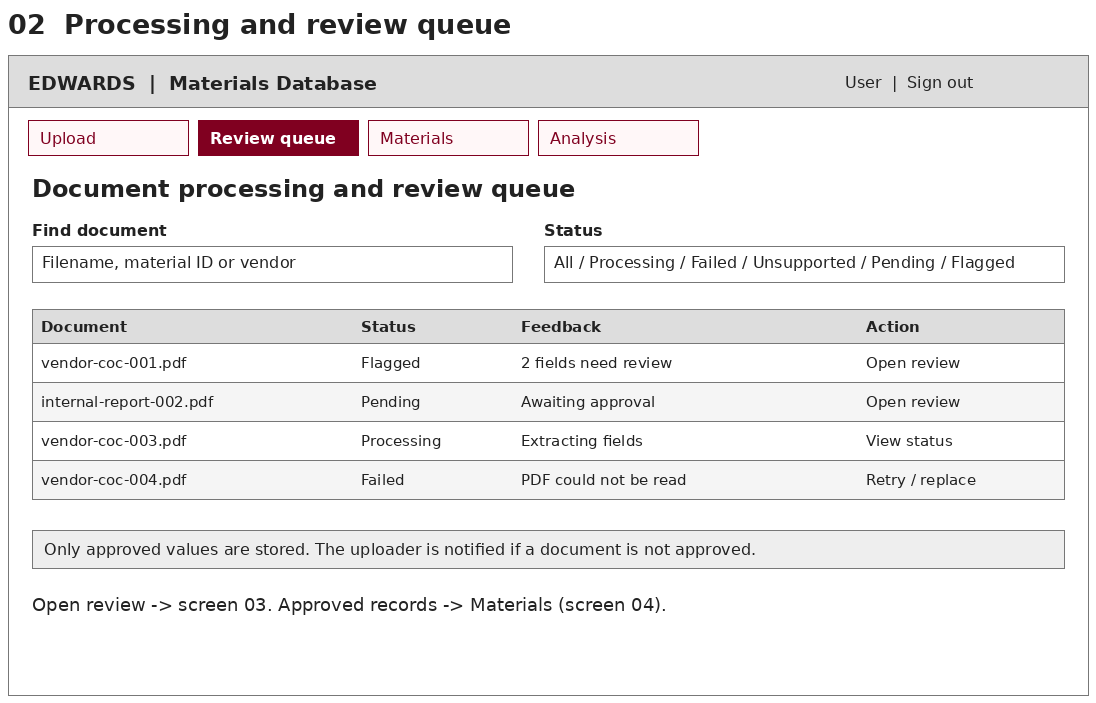
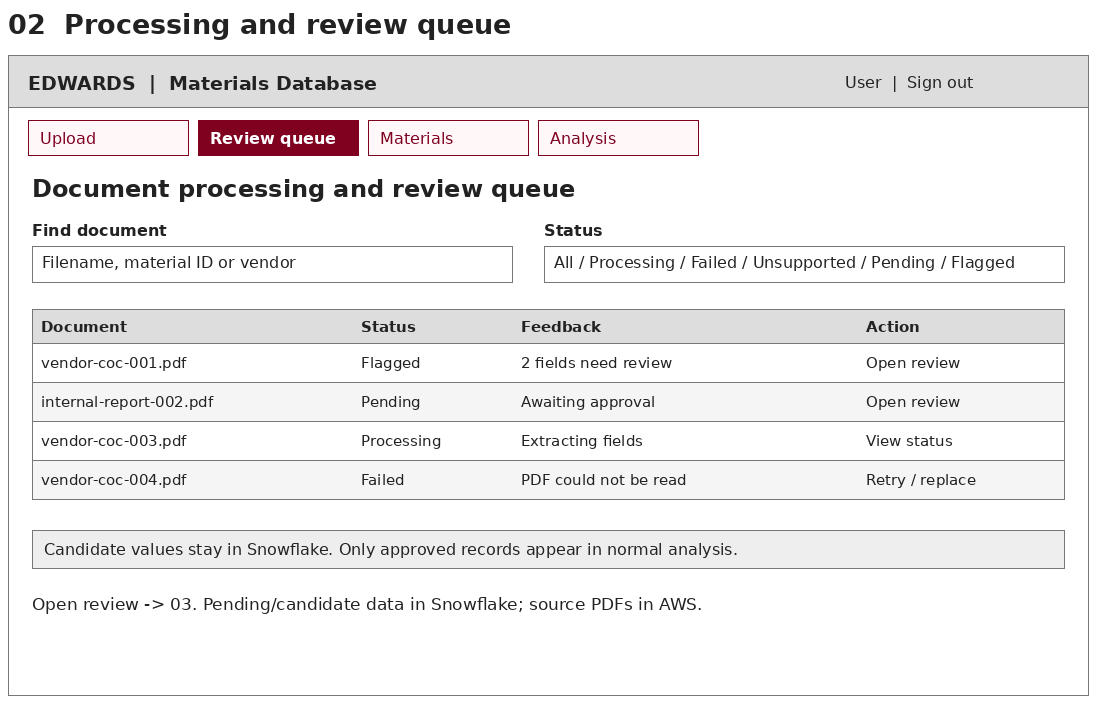
Add analysis prototype and reconcile project documentation
Implement Page 5 synthetic-data analysis, align wireframes and Goal 2 storage, repair proposal references, and retain issue audit drafts for follow-up. Introduction authorship and unconfirmed issue metadata remain pending.

Assisted-by: OpenAI Codex

Changed region(s): [[0.031, 0.7767, 0.6825, 0.8065], [0.031, 0.8364, 0.6515, 0.8663]]

diff --git a/prototype/ui-tabs/analysis.html b/prototype/ui-tabs/analysis.html
@@ -1,0 +1,66 @@
+<!DOCTYPE html>
+<html lang="en">
+<head>
+<meta charset="utf-8"><meta name="viewport" content="width=device-width, initial-scale=1">
+<title>Materials Database — Analysis prototype</title>
+<style>
+:root{--red:#800020;--line:#ddd;--bg:#f4f4f9}*{box-sizing:border-box}body{margin:0;font:16px Arial,sans-serif;background:var(--bg);color:#292929}header{background:var(--red);color:white;padding:20px;display:flex;align-items:center;gap:18px}header img{width:64px;height:64px;object-fit:contain}header h1{font-size:26px}header span{margin-left:auto}main{max-width:1250px;margin:auto;padding:24px}nav{display:flex;flex-wrap:wrap;gap:8px;margin-bottom:20px}nav a,nav span{padding:12px 20px;border:1px solid var(--red);color:var(--red);text-decoration:none;border-radius:5px}nav [aria-current]{background:var(--red);color:white}section,.notice{background:white;border:1px solid var(--line);padding:20px;margin:16px 0;border-radius:8px}.notice{background:#fff5df}fieldset{border:0;padding:0;display:flex;flex-wrap:wrap;gap:15px}fieldset label{display:block;padding:6px 0}select,button{font:inherit;padding:10px;border:1px solid #aaa;border-radius:4px}button{cursor:pointer;background:var(--red);color:white}button.secondary{background:white;color:var(--red)}label{line-height:1.5}button:focus-visible,a:focus-visible,select:focus-visible,input:focus-visible{outline:3px solid #125a9c;outline-offset:3px}.actions{display:flex;flex-wrap:wrap;gap:14px;align-items:end}.actions>label{display:grid;gap:5px}table{width:100%;border-collapse:collapse}th,td{text-align:left;padding:12px;border-bottom:1px solid var(--line)}th{background:#eee}.scroll{overflow:auto}svg{width:100%;height:auto;max-height:340px}#feedback{font-weight:bold}#warnings{color:#7b2600}small{display:block;margin-top:12px}footer{padding:20px;color:#555}
+</style>
+</head>
+<body>
+<header><img src="../logo.jpeg" alt=""><h1>Materials Database</h1><span>Prototype user · no live sign-in</span></header>
+<main>
+<nav aria-label="Main navigation"><a href="../index.html">Upload shell</a><span>Review queue (not integrated)</span><a href="search-view.html">Materials</a><a href="analysis.html" aria-current="page">Analysis</a></nav>
+<h2>Compare material properties</h2>
+<p class="notice">Synthetic-data prototype. Snowflake, SSO, source PDFs, audit logging and export are not connected. Never upload sponsor data here.</p>
+<section><h3>Selected records</h3><p id="handoff"></p><fieldset id="records"><legend>Choose illustrative records</legend></fieldset><button class="secondary" id="clear" type="button">Clear selection</button></section>
+<section><div class="actions">
+<label for="property">Property<select id="property"><option value="strength">Tensile strength</option><option value="elongation">Elongation</option></select></label>
+<label for="view">Analysis view<select id="view"><option value="compare">Compare</option><option value="trend">Historical trend</option><option value="range">Property range</option></select></label>
+<button type="button" id="run">Run analysis</button><button type="button" id="retry" hidden>Retry</button>
+<label><input type="checkbox" id="fail"> Simulate service failure</label>
+</div><p id="feedback" role="status" aria-live="polite"></p><ul id="warnings"></ul>
+<div class="scroll"><table><caption id="caption">Property values</caption><thead><tr><th scope="col">Material / lot</th><th scope="col">Date</th><th scope="col">Value</th><th scope="col">Unit</th></tr></thead><tbody id="values"></tbody></table></div>
+<h3>Visualization</h3><div id="chart"></div><p id="range"></p>
+<small>Values are displayed without intentional rounding. Units must match the selected property's unit. No specification limits are supplied, so no compliance conclusion is made.</small>
+</section></main><footer>Page 5 · Issue #95 · Illustrative records only</footer>
+<script src="analysis.js"></script>
+<script>
+'use strict';
+const {analyze,demoRecords,properties}=MaterialAnalysis;
+const $=id=>document.getElementById(id), params=new URLSearchParams(location.search);
+const incoming=(params.get('ids')||'1,2').split(',').filter(Boolean);
+const unknown=incoming.filter(id=>!demoRecords.some(r=>r.id===id));
+$('handoff').textContent=params.has('ids')?'Selection received from Materials. IDs resolve to synthetic fixtures only.':'Showing two synthetic approved records. You may change the selection below.';
+for(const r of demoRecords){const label=document.createElement('label'),c=document.createElement('input');c.type='checkbox';c.value=r.id;c.checked=incoming.includes(r.id);label.append(c,document.createTextNode(` ${r.name} — ${r.status}`));$('records').append(label);c.addEventListener('change',run);}
+function cell(row,s){row.insertCell().textContent=String(s??'—');}
+function element(tag,attrs){const e=document.createElementNS('http://www.w3.org/2000/svg',tag);for(const [k,v]of Object.entries(attrs))e.setAttribute(k,v);return e;}
+function draw(result,view){
+ const svg=element('svg',{viewBox:'0 0 1000 320',role:'img','aria-label':`${view} of ${properties[$('property').value].label} in ${result.unit}`});
+ const vals=view==='range'?[{name:'Minimum',value:result.min},{name:'Maximum',value:result.max}]:result.values;
+ const max=Math.max(...vals.map(v=>Math.abs(v.value)),1),n=vals.length;
+ const top=25,base=240,height=200;
+ if(view==='trend'){
+  const dates=vals.map(v=>Date.parse(v.date)),lo=Math.min(...dates),hi=Math.max(...dates);
+  const points=vals.map((v,i)=>[hi===lo?500:90+(dates[i]-lo)/(hi-lo)*820,base-v.value/max*height]);
+  svg.append(element('polyline',{points:points.map(p=>p.join(',')).join(' '),fill:'none',stroke:'#800020','stroke-width':3}));
+  points.forEach(([x,y],i)=>{svg.append(element('circle',{cx:x,cy:y,r:5,fill:'#800020'}));const t=element('text',{x,y:base+25,'text-anchor':'middle','font-size':16});t.textContent=vals[i].date;svg.append(t);});
+ }else vals.forEach((v,i)=>{const x=60+i*900/n;svg.append(element('rect',{x,y:base-v.value/max*height,width:Math.max(10,650/n),height:Math.max(0,v.value/max*height),fill:'#800020'}));const t=element('text',{x,y:base+25,'font-size':14});t.textContent=view==='range'?v.name:`Record ${v.id}`;svg.append(t);});
+ const label=element('text',{x:25,y:top,'font-size':16});label.textContent=`${result.unit} · largest plotted value ${max}`;svg.append(label);
+ $('chart').append(svg);
+}
+function run(){
+ $('values').replaceChildren();$('chart').replaceChildren();$('warnings').replaceChildren();$('range').textContent='';$('retry').hidden=true;
+ if($('fail').checked){$('feedback').textContent='Analysis service unavailable (simulated). Clear the failure checkbox and retry; your selection is preserved.';$('retry').hidden=false;return;}
+ const ids=[...$('records').querySelectorAll('input:checked')].map(c=>c.value);
+ const r=analyze(demoRecords,ids,$('property').value,$('view').value);
+ for(const warning of [...r.warnings,...unknown.map(id=>`Incoming record ${id} is not available in the synthetic fixture.`)]){const li=document.createElement('li');li.textContent=warning;$('warnings').append(li);}
+ $('caption').textContent=`${properties[$('property').value].label} (${r.unit})`;
+ for(const v of r.values){const row=$('values').insertRow();[v.name,v.date,v.value,v.unit].forEach(x=>cell(row,x));}
+ $('feedback').textContent=r.empty?`No analysis results: select at least ${r.minimum} approved record${r.minimum===1?'':'s'} with compatible values${$('view').value==='trend'?' and valid dates':''}.`:`${r.values.length} compatible approved records. ${r.warnings.length?'Some records were excluded; see explanations.':''}`;
+ if(!r.empty){draw(r,$('view').value);if($('view').value==='range')$('range').textContent=`Minimum: ${r.min} ${r.unit}; maximum: ${r.max} ${r.unit}.`;}
+}
+$('clear').onclick=()=>{$('records').querySelectorAll('input').forEach(c=>c.checked=false);run();};
+for(const id of ['property','view','fail'])$(id).addEventListener('change',run);
+$('run').onclick=run;$('retry').onclick=run;run();
+</script></body></html>

diff --git a/prototype/ui-tabs/analysis.js b/prototype/ui-tabs/analysis.js
@@ -1,0 +1,32 @@
+(function (root) {
+    'use strict';
+    const demoRecords = [
+        {id:'1', name:'Material A / Lot A', status:'Approved', date:'2026-10-01', properties:{strength:{value:850.125,unit:'MPa'},elongation:{value:12,unit:'%'}}},
+        {id:'2', name:'Material A / Lot B', status:'Approved', date:'2026-11-01', properties:{strength:{value:870.25,unit:'MPa'},elongation:{value:14,unit:'%'}}},
+        {id:'3', name:'Material A / Lot C', status:'Approved', date:'2026-11-03', properties:{strength:{value:125,unit:'ksi'}}},
+        {id:'4', name:'Material A / Lot D', status:'Approved', date:'2026-11-10', properties:{elongation:{value:13,unit:'%'}}},
+        {id:'5', name:'Material A / Lot E', status:'Flagged', date:'2026-11-12', properties:{strength:{value:999,unit:'MPa'}}}
+    ];
+    const properties = {strength:{label:'Tensile strength',unit:'MPa'},elongation:{label:'Elongation',unit:'%'}};
+    function analyze(records, ids, property, view) {
+        if (!properties[property] || !['compare','trend','range'].includes(view)) throw Error('Unsupported property or view.');
+        const warnings=[], values=[], selected=[...new Set(ids.map(String))];
+        for (const id of selected) {
+            const r=records.find(r=>String(r.id)===id);
+            if (!r) {warnings.push(`Record ${id}: not found.`);continue;}
+            if (r.status!=='Approved') {warnings.push(`${r.name}: excluded because it is not approved.`);continue;}
+            const p=r.properties[property];
+            if (!p || typeof p.value!=='number' || !Number.isFinite(p.value)) {warnings.push(`${r.name}: missing or invalid property value.`);continue;}
+            if (p.unit!==properties[property].unit) {warnings.push(`${r.name}: incompatible unit ${p.unit}; no automatic conversion.`);continue;}
+            if (view==='trend' && (!/^\d{4}-\d{2}-\d{2}$/.test(r.date||'') || !Number.isFinite(Date.parse(r.date)))) {warnings.push(`${r.name}: missing or invalid date for trend.`);continue;}
+            values.push({id:r.id,name:r.name,date:r.date,value:p.value,unit:p.unit});
+        }
+        if (view==='trend') values.sort((a,b)=>a.date.localeCompare(b.date));
+        const minimum=view==='range'?1:2;
+        return {values,warnings,empty:values.length<minimum,minimum,unit:properties[property].unit,
+            min:values.length?Math.min(...values.map(x=>x.value)):null,max:values.length?Math.max(...values.map(x=>x.value)):null};
+    }
+    const api={analyze,demoRecords,properties};
+    if (typeof module!=='undefined' && module.exports) module.exports=api;
+    root.MaterialAnalysis=api;
+})(typeof window!=='undefined'?window:globalThis);

diff --git a/prototype/ui-tabs/analysis.test.js b/prototype/ui-tabs/analysis.test.js
@@ -1,0 +1,9 @@
+const test=require('node:test');
+const assert=require('node:assert/strict');
+const {analyze,demoRecords}=require('./analysis.js');
+test('comparison returns approved values at stored precision',()=>{const r=analyze(demoRecords,['1','2'],'strength','compare');assert.equal(r.empty,false);assert.deepEqual(r.values.map(x=>x.value),[850.125,870.25]);assert.equal(r.unit,'MPa');});
+test('excludes unapproved, missing and incompatible records with reasons',()=>{const r=analyze(demoRecords,['1','2','3','4','5','99'],'strength','compare');assert.equal(r.values.length,2);assert.equal(r.warnings.length,4);assert.match(r.warnings.join(' '),/incompatible unit ksi/);assert.match(r.warnings.join(' '),/not approved/);});
+test('empty selection and insufficient comparison are explicit',()=>{assert.equal(analyze(demoRecords,[],'strength','compare').empty,true);assert.equal(analyze(demoRecords,['1'],'strength','compare').empty,true);});
+test('range supports one value and returns exact extrema',()=>{const r=analyze(demoRecords,['2','1'],'strength','range');assert.equal(r.min,850.125);assert.equal(r.max,870.25);assert.equal(analyze(demoRecords,['1'],'strength','range').empty,false);});
+test('trend sorts by date and excludes undated points',()=>{const records=[...demoRecords,{...demoRecords[0],id:'6',date:null}];const r=analyze(records,['2','6','1'],'strength','trend');assert.deepEqual(r.values.map(x=>x.id),['1','2']);assert.match(r.warnings[0],/date/);});
+test('deduplicates selected IDs and rejects unsupported requests',()=>{assert.equal(analyze(demoRecords,['1','1'],'strength','range').values.length,1);assert.throws(()=>analyze(demoRecords,['1'],'unknown','compare'));});

diff --git a/prototype/ui-tabs/search-view.html b/prototype/ui-tabs/search-view.html
@@ -419,7 +419,7 @@
         }
 
         tabButtons.forEach(button => {
-            button.addEventListener('click', () => activateTab(button.dataset.target));
+            button.addEventListener('click', () => { if (button.dataset.target === 'analysis-tab') window.location.href = 'analysis.html?ids=' + encodeURIComponent(getSelectedMaterialIds().join(',')); else activateTab(button.dataset.target); });
         });
 
         const tableBody = document.querySelector('.table-body');
@@ -546,7 +546,7 @@
 
         handleCompareMaterials = ids => {
             console.log('Selected material IDs for comparison:', ids);
-            activateTab('analysis-tab');
+            window.location.href = 'analysis.html?ids=' + encodeURIComponent(ids.join(','));
         };
 
         handleSearchMaterials = filters => {

diff --git a/docs/design/ui-wireframe/build_wireframe.py b/docs/design/ui-wireframe/build_wireframe.py
@@ -57,8 +57,8 @@ text(x,y,'Document processing and review queue',24,True)
 field(x,y+47,480,'Find document','Filename, material ID or vendor')
 field(x+512,y+47,520,'Status','All / Processing / Failed / Unsupported / Pending / Flagged')
 table(x,y+135,1032,['Document','Status','Feedback','Action'],[['vendor-coc-001.pdf','Flagged','2 fields need review','Open review'],['internal-report-002.pdf','Pending','Awaiting approval','Open review'],['vendor-coc-003.pdf','Processing','Extracting fields','View status'],['vendor-coc-004.pdf','Failed','PDF could not be read','Retry / replace']], [320,160,345,207])
-note(x,y+356,1032,'Only approved values are stored. The uploader is notified if a document is not approved.')
-text(x,y+420,'Open review -> screen 03. Approved records -> Materials (screen 04).',18)
+note(x,y+356,1032,'Candidate values stay in Snowflake. Only approved records appear in normal analysis.')
+text(x,y+420,'Open review -> 03. Pending/candidate data in Snowflake; source PDFs in AWS.',17)
 
 x,y=panel(40,895,3,'Validate extracted information','Review queue')
 text(x,y,'Review: vendor-coc-001.pdf',24,True)
@@ -72,7 +72,7 @@ table(x+404,y+73,628,['Field','Editable value','Review flag'],[['Material ID','M
 text(x+404,y+281,'Select a value to inspect its source. Brackets = editable field.',15)
 field(x+404,y+314,628,'Correction note','Explain correction when applicable')
 button(x+404,y+400,160,'Save draft');button(x+580,y+400,225,'Re-extract / replace');button(x+822,y+400,210,'Approve record',True)
-note(x,y+459,1032,'Approval feedback: resolve required flags first. Corrections and approvals record user and time.')
+note(x,y+459,1032,'Approval feedback: resolve required flags first. Audit events retained; Manager access only.')
 
 x,y=panel(1160,895,4,'Search and view material records','Materials')
 text(x,y,'Materials',24,True)
@@ -84,7 +84,7 @@ text(x,y+121,'Approved records  |  2 matching records  |  [ ] Select records to 
 table(x,y+155,1032,['Select','Material / lot','Vendor','Source type','Action'],[['[x]','M-001 / L-021','Vendor A','CoC','View details'],['[x]','M-001 / L-022','Vendor B','Test report','View details']], [80,300,220,210,222])
 box(x,y+281,1032,130,'#f5f5f5');text(x+14,y+293,'Record details: M-001 / L-021  |  Approved',19,True)
 text(x+14,y+328,'Properties: tensile strength 850 MPa; elongation 12%  |  Processing: view steps',16)
-text(x+14,y+359,'Source: vendor-coc-001.pdf [Open PDF]  |  Review history [View]',16)
+text(x+14,y+359,'Source: vendor-coc-001.pdf [Open PDF]',16)
 button(x,y+430,245,'Compare selected (2)',True)
 text(x+270,y+442,'-> Analysis, screen 05',17)
 text(x,y+490,'Empty state: No matching records. Change filters or reset your search.',16)
@@ -110,7 +110,7 @@ for i,(a,b) in enumerate([
 ('04 Materials -> 05 Analysis','Select at least two compatible records, then Compare selected.'),
 ('Persistent navigation','Upload, Review queue, Materials and Analysis remain accessible.'),
 ('Feedback and access','Show loading, success, empty and error states; restrict actions by role.'),
-('Design boundary','This wireframe specifies layout and behavior, not a final visual theme.')]):
+('Validation and Manager access','3 checks; about 90% confidence. Manager audit UI is not designed yet.')]):
     yy=1730+i*80;text(1184,yy,a,20,True);text(1184,yy+31,b,17)
 text(40,2370,'Source: task #41, proposal sections 2–3, and existing use-case / ER design. All displayed records and values are examples.',18)
 im.save(OUT.parent/'ui-wireframe.png')

diff --git a/proposal/proposal.md b/proposal/proposal.md
@@ -62,8 +62,8 @@ The Online Materials Database project aims to reduce the manual effort required 
 
 - **Goal 0: Design and Specification Documents** [epic:#42](https://github.com/CPSC490-Team-Proj/CPSC490-G07-MightyMorphin/issues/42)
   
-  - Objective 0.1: Design and Architecture [story#48](https://github.com/CPSC490-Team-Proj/CPSC490-G07-MightyMorphin/issues/48)
-  - Objective 0.2: Epic Specification Documents [story#49](https://github.com/CPSC490-Team-Proj/CPSC490-G07-MightyMorphin/issues/49)
+  - Objective 0.1: Design and Architecture [[story:#48]](https://github.com/CPSC490-Team-Proj/CPSC490-G07-MightyMorphin/issues/48)
+  - Objective 0.2: Epic Specification Documents [[story:#49]](https://github.com/CPSC490-Team-Proj/CPSC490-G07-MightyMorphin/issues/49)
 
 - **Goal 1: Snowflake Setup and Document Ingestion/Validation** [epic:#11](https://github.com/CPSC490-Team-Proj/CPSC490-G07-MightyMorphin/issues/11)
   The first goal establishes Snowflake for approved material-data storage and provides the intake, extraction, normalization, failure-handling, validation, and review workflow for supported CoCs and material test reports.
@@ -75,7 +75,7 @@ The Online Materials Database project aims to reduce the manual effort required 
   - Objective 1.5: Validate and approve candidate material data [story:#16](https://github.com/CPSC490-Team-Proj/CPSC490-G07-MightyMorphin/issues/16)
 
 - **Goal 2: Material and Source-Document Storage** [epic:#17](https://github.com/CPSC490-Team-Proj/CPSC490-G07-MightyMorphin/issues/17)
-  The second goal preserves original source documents and document metadata, stores candidate records and review history in the operational database, ingests only approved material data into Snowflake, and maintains reliable end-to-end traceability.
+  The second goal preserves original PDFs in AWS S3 and stores source metadata, candidate values, pending workflow state, validation results and review history in Snowflake. Only approved material data is published to the approved-record dataset for search and analysis; candidate persistence is distinct from approval. Source references and ingestion outcomes maintain end-to-end traceability.
 
   - Objective 2.1: Store original source documents and document metadata [story:#18](https://github.com/CPSC490-Team-Proj/CPSC490-G07-MightyMorphin/issues/18)
   - Objective 2.2: Store candidate records, workflow status, and review history [story:#19](https://github.com/CPSC490-Team-Proj/CPSC490-G07-MightyMorphin/issues/19)
@@ -220,6 +220,23 @@ Key: Diamond = decision; oval = user entity; cylindar = database; rectangles = p
 
 *Figure 5. UI Wireframes. Screen navigation and interaction notes are included in the overview.*
 
+The five user screens separate PDF upload, processing/review queue, validation,
+material search, and analysis. Existing PDFs are accepted without physical
+scanning; at OCR processing they are saved to AWS, while candidate values,
+pending items, validation results and approved records live in Snowflake with
+distinct review statuses. Validation makes three checks with an approximately
+90% confidence target; aggregation and exact thresholds remain unspecified.
+Review places editable values beside the source PDF, preserving human approval
+instead of treating every extracted value as verified. A separate queue was
+chosen over putting processing and correction into a single upload screen.
+Regular user history panels were removed because audit-log investigation and
+export belong to the Manager. Search retains source-document links and passes
+selected approved records to comparison. Exact permissions, the Manager UI,
+confidence aggregation and later export behavior are not designed here.
+[[task:#122]](https://github.com/CPSC490-Team-Proj/CPSC490-G07-MightyMorphin/issues/122)
+[[task:#41]](https://github.com/CPSC490-Team-Proj/CPSC490-G07-MightyMorphin/issues/41)
+
+
 ![Sequence Diagram - Search and View](../docs/design/sequence-search-view.png)
 
 *Figure 6.4. Search, View, and Record Selection Sequence Diagram. The figure shows how a user searches for records by entering filter criteria in the GUI. The request is sent through the Query Service and Database Driver to retrieve matching database records, which are returned and displayed in a results table. Users can select a record to view its details or select two records, enabling the Compare button and passing the selected records to the Compare tab.*
@@ -238,8 +255,17 @@ Key: Diamond = decision; oval = user entity; cylindar = database; rectangles = p
 |[Specification — Goal 1: Snowflake Setup and Document Ingestion/Validation](../docs/specs/goal-1-snowflake-ingestion-validation.md)|Specification|Specification document for Goal 1: Automated Material Data Extraction and Verification|[#46](https://github.com/CPSC490-Team-Proj/CPSC490-G07-MightyMorphin/issues/46)|
 |[Specification — Goal 2: Material and Source-Document Storage](../docs/specs/goal-2-storage-management.md)|Specification|Specification document for Goal 2: Centralized Material Data Storage and Management|[#58](https://github.com/CPSC490-Team-Proj/CPSC490-G07-MightyMorphin/issues/58)|
 |[Specification — Goal 3: Material Search, Viewing, and Analysis](../docs/specs/goal-3-material-search-viewing-analysis.md)|Specification|Specification document for Goal 3: Material Data Access and Analysis|[#59](https://github.com/CPSC490-Team-Proj/CPSC490-G07-MightyMorphin/issues/59)|
+|[Page 5 Analysis Sequence](../docs/design/sequence-analysis/analysis-sequence.md)|Design|Shows approved-record comparison, trend/range requests, and empty/error responses.|[[task:#94]](https://github.com/CPSC490-Team-Proj/CPSC490-G07-MightyMorphin/issues/94)|
 
 ### Planned activities — the work items
+
+Proposal preparation is tracked under [[epic:#4]](https://github.com/CPSC490-Team-Proj/CPSC490-G07-MightyMorphin/issues/4),
+including abstract work [[task:#28]](https://github.com/CPSC490-Team-Proj/CPSC490-G07-MightyMorphin/issues/28).
+Sponsor intake and architecture forms are tracked under
+[[epic:#45]](https://github.com/CPSC490-Team-Proj/CPSC490-G07-MightyMorphin/issues/45); confidential form contents are
+not included in this repository. Specification documents are coordinated through
+[[story:#49]](https://github.com/CPSC490-Team-Proj/CPSC490-G07-MightyMorphin/issues/49).
+
 
 | Issue | Type | Activity | Parent | Owner | Sprint |
 |---|---|---|---|---|---|

diff --git a/docs/design/ui-wireframe/ui-wireframe.md b/docs/design/ui-wireframe/ui-wireframe.md
@@ -11,8 +11,8 @@ The layouts illustrate desktop screens for authorized Edwards users. All names, 
 | [Task #41](https://github.com/CPSC490-Team-Proj/CPSC490-G07-MightyMorphin/issues/41) criterion | Coverage |
 |---|---|
 | Document upload | Screen 01: digital/scanned PDFs, batch selection, document type per file, vendor, processing action and feedback |
-| Review and validation | Screens 02–03: processing status, flagged/pending queue, source preview, editable extracted fields, correction note, approval and review history |
-| Search and stored records | Screen 04: material/lot, vendor and source-type filters, results, property details, source PDF and history |
+| Review and validation | Screens 02–03: processing status, flagged/pending queue, source preview, editable extracted fields, correction note and approval |
+| Search and stored records | Screen 04: material/lot, vendor and source-type filters, results, property details and source PDF |
 | Analysis results | Screen 05: selected-record comparison, values and units, chart placeholder, trend/range view selection and missing-data feedback |
 | Navigation | Persistent navigation on every screen; overview panel 06 describes transitions |
 | Inputs, buttons, tables and feedback | Included across all primary screens, with invalid-file, failed-processing, unresolved-review and empty-search examples |
@@ -22,12 +22,13 @@ The layouts illustrate desktop screens for authorized Edwards users. All names, 
 ## Interaction rules
 
 - Upload accepts PDFs; the user can override document type for each selected file. Vendor is optional and may be refined during review.
-- Failed documents can be retried or replaced. Document statuses are Uploaded, Processing, Failed, Unsupported and Done; review statuses are Pending, Flagged and Approved. Extracted values are stored only after approval; until then the document stays in the review queue and the uploader is notified.
+- Users upload existing digital/scanned PDFs; the app performs no physical scanning. At OCR processing the PDF is saved to AWS (S3 proposed). Candidate data, pending review items, validation results and approved material data are held in Snowflake, with status separating them. Documents: Uploaded, Processing, Failed, Unsupported, Done; review: Pending, Flagged, Approved.
 - Review displays extracted values alongside the original document. Saving a draft does not approve it. Required flags must be resolved before approval; corrections and approvals retain the user and timestamp.
 - The example PDF has two attention fields. After correction and approval, its illustrative material record appears in the Materials screen.
 - Viewing a result opens its detail region. Comparing selected records transfers the selection to Analysis. Normal search and analysis use approved records.
-- Users sign in with Edwards' Microsoft SSO. Any employee may upload (to be confirmed with the sponsor); role permissions determine the other actions, and the role list will be reviewed later. Admin tasks (permissions, job monitoring, audit-log export) are not part of these user screens.
-- The on-site document system provides source PDFs through application access; the application stores only a reference. No cloud database or infrastructure configuration appears in these user screens.
+- Users sign in with Edwards' Microsoft SSO. Any employee may upload (to be confirmed with the sponsor); role permissions determine the other actions, and the role list will be reviewed later. Manager tasks (permissions, job monitoring, audit-log access/export) are not part of these user screens.
+- Source PDFs are retrieved through authorized application access to AWS storage. Regular user screens do not display the audit log; the Manager can access it for investigation.
+- Validation checks each document three times, using approximately 90% confidence as the working team threshold. Below-threshold results are flagged; the aggregation rule and exact threshold remain to be specified.
 - The wireframe does not assume that specification limits have been supplied. Out-of-spec conclusions require those limits and compatible units.
 
 - Export of results (PDF, DOC, CSV) is in scope but planned last, so no export button is drawn yet.
@@ -54,3 +55,7 @@ or extract them from [the SVG package](ui-wireframe-figma.zip). No plugin is nee
 SVG import creates vector layers; font/text conversion depends on Figma.
 Auto Layout and prototype links are not included. Run `prepare_figma.py`
 after regenerating the main SVG to refresh the separate screens and ZIP.
+
+## Alignment with #122
+
+Removed the ordinary user history panel; correction/approval events are still retained but are not a user-visible audit log. The Manager workflow is outside these five screens. Storage and validation wording reflects the November 15 call recorded in #122. Exact confidence aggregation, permissions and Manager UI remain undesigned.

diff --git a/docs/specs/goal-2-storage-management.md b/docs/specs/goal-2-storage-management.md
@@ -9,6 +9,8 @@ Owner: Liam Wilson · Sprint: 3 · Status: draft
 
 **Out of scope.** Document intake, extraction/OCR, validation implementation, and reviewer-interface implementation, which are covered by Goal 1; and user search, viewing, comparison, and analysis, which are covered by Goal 3.
 
+Snowflake is the official database, including operational storage for candidate records, pending items, validation results and review events. References below to an operational database mean that logical storage in Snowflake, not an additional database product. Approval promotes material data to the approved dataset; it does not imply that pending candidates have never been persisted. Physical table/schema separation is not finalized. Original PDFs are stored in AWS S3.
+
 ## Functional requirements
 
 | ID | Requirement | Story |
@@ -18,7 +20,7 @@ Owner: Liam Wilson · Sprint: 3 · Status: draft
 | FR-3 | When Goal 1 returns a document-processing or review outcome, the operational database shall store its status, processing attempts, errors, retry count, timestamps, OCR confidence results, and responsible user where applicable. | [#19](https://github.com/CPSC490-Team-Proj/CPSC490-G07-MightyMorphin/issues/19) |
 | FR-4 | When Goal 1 returns a candidate record, the system shall store material identifiers, vendor, lot, source type, property values, units, normalized values, original extracted values where applicable, and validation results. | [#19](https://github.com/CPSC490-Team-Proj/CPSC490-G07-MightyMorphin/issues/19) |
 | FR-5 | When Goal 1 returns a reviewer decision, the system shall store the approval or rejection decision, reviewer, timestamp, and corrections. | [#20](https://github.com/CPSC490-Team-Proj/CPSC490-G07-MightyMorphin/issues/20) |
-| FR-6 | When a candidate record is approved, the system shall insert its material information, property values, units, and source-document reference into Snowflake and retain the resulting Snowflake record ID. | [#20](https://github.com/CPSC490-Team-Proj/CPSC490-G07-MightyMorphin/issues/20) |
+| FR-6 | When a candidate record is approved, the system shall publish its material information, property values, units, and source-document reference to the approved-material dataset in Snowflake and retain the resulting Snowflake record ID. | [#20](https://github.com/CPSC490-Team-Proj/CPSC490-G07-MightyMorphin/issues/20) |
 | FR-7 | When a candidate record is pending review, invalid, rejected, or has unresolved low-confidence fields, the system shall prevent it from being stored in Snowflake as approved material data. | [#20](https://github.com/CPSC490-Team-Proj/CPSC490-G07-MightyMorphin/issues/20) |
 | FR-8 | When Snowflake ingestion is attempted, the system shall record the outcome and link the document, candidate record, reviewer decision, ingestion event, and Snowflake record ID. | [#21](https://github.com/CPSC490-Team-Proj/CPSC490-G07-MightyMorphin/issues/21) |
 | FR-9 | When an identical approved record revision is submitted more than once, the system shall prevent duplicate Snowflake records; when a retryable ingestion failure occurs, the system shall retry within the configured limit and record each attempt. | [#21](https://github.com/CPSC490-Team-Proj/CPSC490-G07-MightyMorphin/issues/21) |
@@ -36,7 +38,7 @@ Owner: Liam Wilson · Sprint: 3 · Status: draft
 
 - [ ] Accepted source documents are permanently stored in the approved AWS S3 bucket with unique identifiers, checksums, metadata, object keys, and retrievable storage references.
 - [ ] Candidate records, OCR confidence, validation results, workflow status, and reviewer decisions are stored in the operational database.
-- [ ] Only approved records are inserted into Snowflake.
+- [ ] Only approved records are published as approved material data in Snowflake; pending candidates remain persisted in its operational storage.
 - [ ] Approved Snowflake records contain material data, property values, units, and source-document references.
 - [ ] Snowflake record IDs and ingestion outcomes are retained with their related operational records.
 - [ ] Duplicate ingestion is prevented and retryable failures are retried and recorded.

diff --git a/docs/design/sequence-analysis/analysis-sequence.md b/docs/design/sequence-analysis/analysis-sequence.md
@@ -1,0 +1,57 @@
+# Design — Page 5 Analysis Results Sequence
+
+Epic: [#42](https://github.com/CPSC490-Team-Proj/CPSC490-G07-MightyMorphin/issues/42) · Story: [#48](https://github.com/CPSC490-Team-Proj/CPSC490-G07-MightyMorphin/issues/48) · Task: [#94](https://github.com/CPSC490-Team-Proj/CPSC490-G07-MightyMorphin/issues/94)
+
+Sprint: 3 · Status: draft for teammate review
+
+![Sequence diagram for selecting and analyzing approved material records](analysis-sequence.png)
+
+Page 4 passes selected record IDs to Page 5. Page 5 requests the active property and analysis view; the API checks authentication and permissions, and the analysis service reads only approved records the user may access. Results preserve stored precision and identify units. Trend and range views use dated points and minimum/maximum values, respectively. Unusable values are explained, never silently averaged across incompatible units. A service failure preserves the selection for retry.
+
+This design covers approved-record comparison and visualization in the [analysis specification](../../specs/goal-3-material-search-viewing-analysis.md). See the [Page 5 wireframe](../ui-wireframe/ui-wireframe-analysis.png) and the [technology decision record](../technology-stack-decision.md). The diagram's **Materials store** represents **Snowflake**, the confirmed database for structured material records. API routes and unit conversion rules are not finalized. Export is deferred to later work.
+
+Paste the Mermaid source below into a Mermaid editor to edit or re-export the diagram. The PNG above is the provided Mermaid export. Independent teammate review is pending.
+
+```mermaid
+sequenceDiagram
+    actor User as Authorized user
+    participant Materials as Page 4 - Materials
+    participant UI as Page 5 - Analysis
+    participant API as Backend API
+    participant Analysis as Analysis service
+    participant Store as Materials store
+
+    User->>Materials: Select records and choose Compare
+    Materials->>UI: Open Analysis with selected record IDs
+    Note over User,UI: Run on entry and repeat when the property or view changes
+    UI->>API: Request analysis (record IDs, property, view)
+    API->>API: Check session, permissions, and request
+
+    alt Session expired, access denied, or request invalid
+        API-->>UI: Return sign-in, access, or validation error
+        UI-->>User: Explain what to fix and keep the selection
+    else Request authorized and valid
+        API->>Analysis: Run selected view within authorized scope
+        Analysis->>Store: Read selected approved records in scope
+        alt Store read fails
+            Store-->>Analysis: Read failure
+            Analysis-->>API: Analysis unavailable
+            API-->>UI: Service error
+            UI-->>User: Offer retry and keep the selection
+        else Store read succeeds
+            Store-->>Analysis: Return matching values, units, and dates
+            alt No eligible records or too little compatible data
+                Analysis-->>API: No results with explanation
+                API-->>UI: Empty result with reason
+                UI-->>User: Explain why and offer another selection or view
+            else Enough compatible data
+                Analysis->>Analysis: Compute the selected view without rounding away stored precision
+                Note over Analysis: Comparison = side-by-side values<br/>Trend = dated points<br/>Range = min and max
+                Note over Analysis: Evaluate specification limits only if supplied by the sponsor and units are compatible
+                Analysis-->>API: Results with units and warnings for excluded values
+                API-->>UI: Return selected view and warnings
+                UI-->>User: Display table or chart and explain any omissions
+            end
+        end
+    end
+```

diff --git a/prototype/README.md b/prototype/README.md
@@ -42,3 +42,34 @@ assumption in 〈the epic this belongs to〉.
 |---|---|
 | v0 (Sep 27) | login check + 4 tests (this example) |
 | Sprint 1 | 〈what you added〉 |
+
+
+## Page 5 analysis prototype (#95)
+
+From the repository root, run `python3 -m http.server 8000 --directory prototype`
+and open `http://localhost:8000/ui-tabs/analysis.html`. Node.js 18+ runs the
+dependency-free behavioral checks: `node --test prototype/ui-tabs/analysis.test.js`.
+The existing login example above is unrelated to analysis and remains unchanged.
+
+This screen uses synthetic records only, with values, units, dates and approval
+states in `ui-tabs/analysis.js`. Snowflake, API authorization, Microsoft SSO,
+document access, audit logging and export are mocked or unavailable. It performs
+no network data retrieval or storage and makes no specification/compliance claims.
+Plain HTML/JavaScript follows the existing prototype style; it does not settle
+the production React/Vue decision.
+
+Select at least two compatible approved values for comparison or trend; range
+supports one value. Use the property/view controls to change the table and chart.
+Record 3 demonstrates incompatible units, record 4 a missing strength, and record
+5 an unapproved record. Clear the selection to see an empty state. Toggle
+Simulate service failure to test retry without losing selection. No conversion
+is performed; the table retains the underlying numeric value without display
+rounding. JavaScript numbers have normal floating-point limitations, so the
+production decimal precision contract remains an integration requirement.
+
+The Materials page now forwards selected IDs using `?ids=1,2`. Only fixture IDs
+1–5 resolve; unknown incoming IDs are reported instead of invented data. The
+Page 4 demo's display labels are separate fixtures; shared-record integration
+with the Materials owner is still required. Trend uses source dates; table rows
+identify the record for each point. Backend permission enforcement, production
+validation, persistent data, manager-only auditing and export require follow-up.
